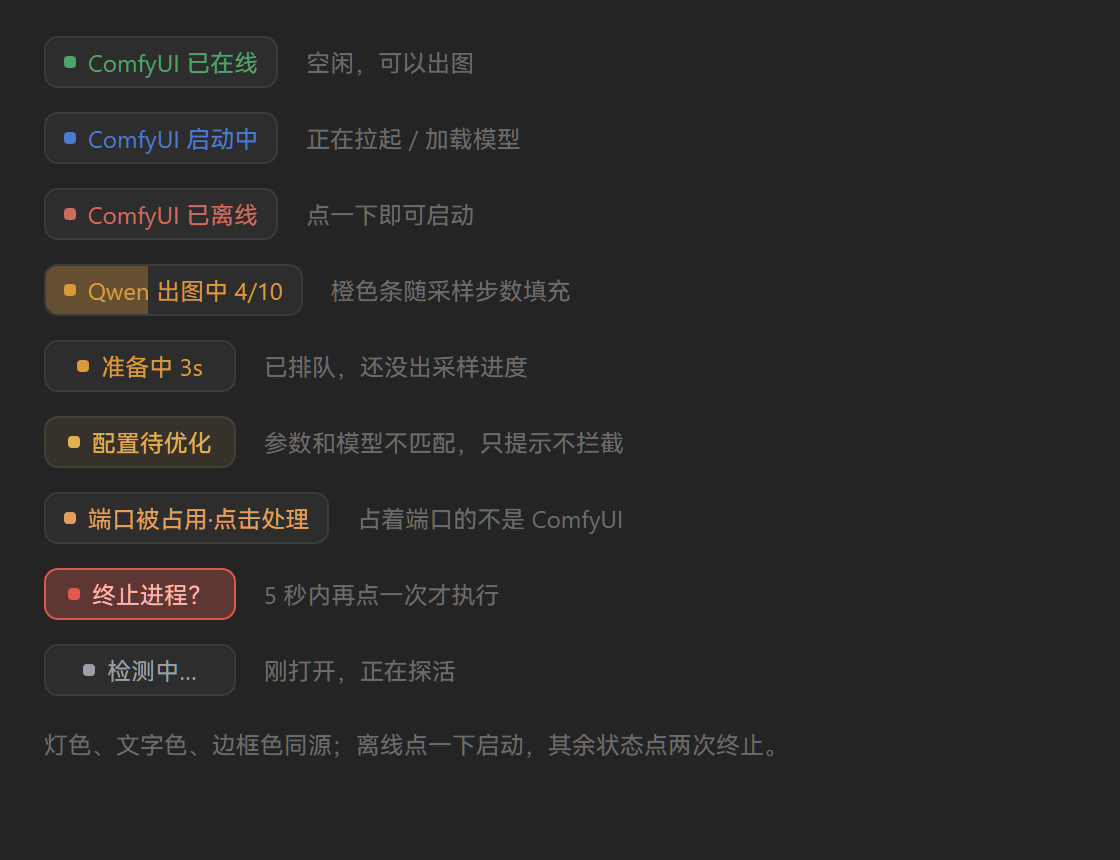
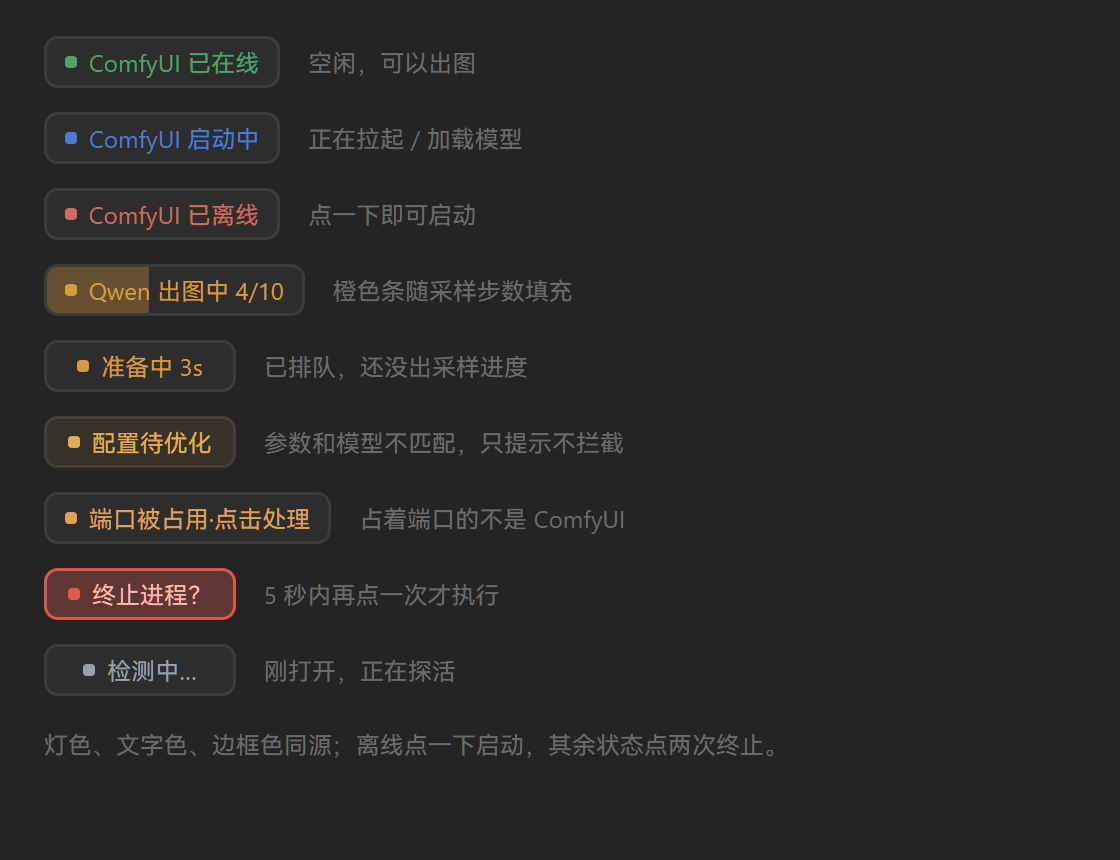
style: 胶囊和按钮的描边从 1px 加到 1.5px
加粗的是「能点的东西」：状态胶囊、保存设置、恢复默认、小按钮（刷新模型
列表这类）、检测按钮。

卡片（状态栏、折叠面板）和输入框保持 1px——它们不是点一下就执行的控件，
留着细描边反而能区分层次。

另外把 README 里的设置页截图缩到 990 宽（原来 1377），和其它六张一致。
不然 README 里都按 width=620 显示时，这张会显得内容小一圈。

状态胶囊示意图也重新渲染了一次，反映新的圆角和描边。

diff --git a/client.js b/client.js
@@ -379,7 +379,7 @@ window.__ModuleLoader__.load({
   height: 30px; padding: 0 16px; border-radius: 7px;
   /* 和「保存设置」同宽：「恢复默认」和「确定恢复」都是 4 字，切换时不会跳 */
   min-width: 96px; text-align: center;
-  border: 1px solid rgba(224, 90, 80, .65);
+  border: 1.5px solid rgba(224, 90, 80, .65);
   color: #e05a50;
   font-size: 12px; cursor: pointer;
   background: transparent;
@@ -464,7 +464,7 @@ window.__ModuleLoader__.load({
   height: 30px; padding: 0 16px; border-radius: 7px;
   /* 固定最小宽度：文字在「保存设置」和「确认保存？」之间切换时长度不变 */
   min-width: 96px; text-align: center;
-  border: 1px solid rgba(237, 237, 237, .55);
+  border: 1.5px solid rgba(237, 237, 237, .55);
   background: transparent;
   color: var(--dsw-alias-text-primary, #ededed);
   font-size: 12px; cursor: pointer;
@@ -566,7 +566,7 @@ window.__ModuleLoader__.load({
 .qwd-mini {
   padding: 3px 9px; font: inherit; font-size: 11px; cursor: pointer;
   color: var(--dsw-alias-text-secondary, #8b8f96);
-  background: transparent; border: 1px solid rgba(128, 128, 128, .28); border-radius: 5px;
+  background: transparent; border: 1.5px solid rgba(128, 128, 128, .28); border-radius: 5px;
 }
 .qwd-mini:hover { color: var(--dsw-alias-text-primary, #ededed); border-color: var(--dsw-alias-accent, #4a7bd0); }
 .qwd-mini:disabled { opacity: .45; cursor: default; }
@@ -779,7 +779,7 @@ window.__ModuleLoader__.load({
   width: 100%; padding: 8px 10px; font: inherit; font-size: 12px; text-align: left;
   color: var(--dsw-alias-text-primary, #ededed); cursor: pointer;
   background: rgba(128, 128, 128, .08);
-  border: 1px solid rgba(128, 128, 128, .22); border-radius: 7px;
+  border: 1.5px solid rgba(128, 128, 128, .22); border-radius: 7px;
 }
 .qwd-candidate:hover { border-color: var(--dsw-alias-accent, #4a7bd0); }
 .qwd-candidate-path { overflow: hidden; text-overflow: ellipsis; white-space: nowrap; }
@@ -2235,7 +2235,7 @@ const SEAT_STYLE = `
   background: rgba(128, 128, 128, .10);
   /* 边框取自 --qwd-seat-dot：灯是什么颜色，边框就是同色的半透明版。
      不支持 color-mix 的内核会保留上一行的灰边框。 */
-  border: 1px solid rgba(128, 128, 128, .18);
+  border: 1.5px solid rgba(128, 128, 128, .18);
   border-color: color-mix(in srgb, var(--qwd-seat-dot, #808080) 45%, transparent);
   cursor: pointer; user-select: none;
 }
